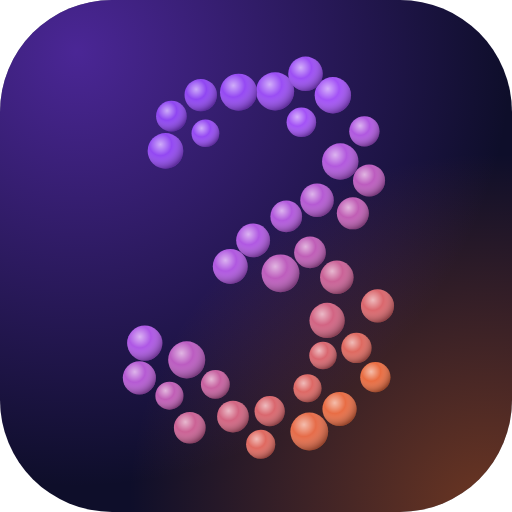
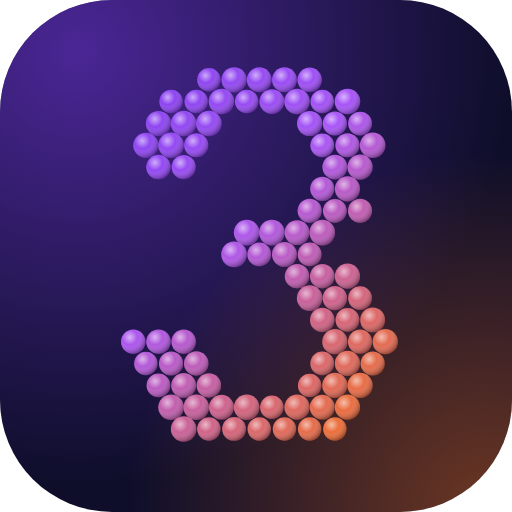
Refine the particle 3: denser honeycomb packing, smaller superscript
Resample the 3 on a tight honeycomb grid so particles sit close and
evenly along the strokes, and size it down in the header to read as a
superscript. Favicons (bolder variant at 16px), app icons, logo.svg and
og-image regenerated to match.

Claude-Session: https://claude.ai/code/session_01PYS1rasdfGw81tkoDZqZRk

Changed region(s): [[0.2188, 0.0938, 0.7812, 0.9062]]

diff --git a/src/components/particleThree.ts b/src/components/particleThree.ts
@@ -1,2 +1,2 @@
 // Particle "3" for the logo, sampled from DM Sans ExtraBold in a 24×24 box: [x, y, radius, colour]
-export const PARTICLE_THREE: [number, number, number, string][] = [[15,11.8,0.88,"#bf5eb7"],[14.86,19.35,0.78,"#dd6865"],[17.58,17.11,0.84,"#de6960"],[13.06,2.85,1.06,"#9a4df4"],[15.95,15.58,0.98,"#d26483"],[16.27,3.07,1.01,"#a352f6"],[16.68,6.75,1.01,"#b259dd"],[15.39,8.9,0.93,"#b55ad3"],[10.72,20.92,0.88,"#d26582"],[12.76,20.62,0.84,"#d9676e"],[17.38,9.63,0.89,"#c05eb5"],[8.93,3.06,0.9,"#9046f2"],[14.52,4.57,0.82,"#a352f6"],[6.97,6.16,0.99,"#9348f2"],[16.64,20.5,0.95,"#e86d45"],[11.84,11.13,0.94,"#b058e2"],[18.75,14.77,0.92,"#da676d"],[7.19,19.76,0.78,"#c05eb6"],[8.15,17.77,1.03,"#bb5cc1"],[16.49,13.18,0.93,"#ca6297"],[8.32,21.54,0.88,"#cb6295"],[11.03,2.9,1.03,"#9549f3"],[14.96,21.75,1.05,"#e66c49"],[13.36,12.96,1.05,"#bd5dbd"],[5.82,16.84,0.98,"#ae57e5"],[18.63,18.73,0.84,"#e96d42"],[13.68,9.8,0.88,"#b259dc"],[18.02,5.07,0.84,"#b058e0"],[7.3,4.23,0.85,"#8f46f1"],[9.19,5.18,0.77,"#964af3"],[12.26,22.46,0.81,"#df6960"],[18.28,7.8,0.89,"#bc5cbf"],[9.74,19.13,0.8,"#c761a0"],[5.52,18.77,0.92,"#b55ad3"],[10.57,12.58,0.97,"#b058e0"],[15.72,17.53,0.76,"#d96770"],[14.75,1.88,0.96,"#9c4ef4"]];
+export const PARTICLE_THREE: [number, number, number, string][] = [[9.38,2.21,0.65,"#8f46f1"],[10.78,2.21,0.7,"#9348f2"],[12.18,2.21,0.69,"#964af3"],[13.58,2.21,0.69,"#9a4cf4"],[14.98,2.21,0.68,"#9e4ff5"],[7.28,3.42,0.65,"#8d44f1"],[8.68,3.42,0.65,"#9046f2"],[10.08,3.42,0.71,"#9449f2"],[11.48,3.42,0.65,"#984bf3"],[12.88,3.42,0.69,"#9b4df4"],[14.28,3.42,0.71,"#9f50f5"],[15.68,3.42,0.65,"#a352f6"],[17.08,3.42,0.71,"#a754f7"],[6.58,4.64,0.7,"#8e45f1"],[7.98,4.64,0.71,"#9247f2"],[9.38,4.64,0.71,"#954af3"],[14.98,4.64,0.7,"#a453f6"],[16.38,4.64,0.67,"#a855f7"],[17.78,4.64,0.66,"#ad57e8"],[5.88,5.85,0.7,"#8f46f1"],[7.28,5.85,0.71,"#9348f2"],[8.68,5.85,0.67,"#974af3"],[15.68,5.85,0.66,"#aa56f2"],[17.08,5.85,0.67,"#b058e2"],[18.48,5.85,0.71,"#b55ad3"],[6.58,7.06,0.68,"#9449f3"],[7.98,7.06,0.67,"#984bf3"],[16.38,7.06,0.69,"#b259dc"],[17.78,7.06,0.7,"#b75bcd"],[15.68,8.27,0.67,"#b459d7"],[17.08,8.27,0.7,"#b95bc7"],[14.98,9.49,0.67,"#b65ad1"],[16.38,9.49,0.66,"#bb5cc2"],[17.78,9.49,0.67,"#c15eb2"],[11.48,10.7,0.71,"#ad57ea"],[12.88,10.7,0.71,"#b259db"],[14.28,10.7,0.69,"#b85bcb"],[15.68,10.7,0.71,"#bd5dbc"],[10.78,11.91,0.71,"#af57e5"],[12.18,11.91,0.66,"#b459d5"],[13.58,11.91,0.69,"#ba5cc6"],[14.98,11.91,0.66,"#bf5eb6"],[14.28,13.12,0.68,"#c15eb1"],[15.68,13.12,0.68,"#c760a1"],[17.08,13.12,0.7,"#cd6392"],[14.98,14.34,0.71,"#c9619b"],[16.38,14.34,0.68,"#cf638c"],[17.78,14.34,0.66,"#d4657c"],[15.68,15.55,0.68,"#d16486"],[17.08,15.55,0.66,"#d66677"],[18.48,15.55,0.69,"#dc6867"],[5.18,16.76,0.68,"#ac56ed"],[6.58,16.76,0.68,"#b158de"],[7.98,16.76,0.68,"#b75ace"],[16.38,16.76,0.7,"#d86771"],[17.78,16.76,0.67,"#de6961"],[19.18,16.76,0.7,"#e36b52"],[5.88,17.97,0.65,"#b359d8"],[7.28,17.97,0.67,"#b95bc8"],[8.68,17.97,0.68,"#be5db9"],[15.68,17.97,0.66,"#da686b"],[17.08,17.97,0.7,"#e06a5c"],[18.48,17.97,0.67,"#e56c4c"],[6.58,19.19,0.66,"#bb5cc3"],[7.98,19.19,0.69,"#c05eb3"],[9.38,19.19,0.68,"#c660a4"],[14.98,19.19,0.65,"#dc6866"],[16.38,19.19,0.7,"#e26a56"],[17.78,19.19,0.7,"#e86d47"],[7.28,20.4,0.71,"#c25fae"],[8.68,20.4,0.71,"#c8619e"],[10.08,20.4,0.69,"#ce638e"],[11.48,20.4,0.71,"#d3657f"],[12.88,20.4,0.65,"#d9676f"],[14.28,20.4,0.7,"#de6960"],[15.68,20.4,0.69,"#e46b50"],[17.08,20.4,0.7,"#ea6d41"],[7.98,21.61,0.71,"#ca6298"],[9.38,21.61,0.65,"#d06489"],[10.78,21.61,0.66,"#d56679"],[12.18,21.61,0.65,"#db686a"],[13.58,21.61,0.65,"#e06a5a"],[14.98,21.61,0.65,"#e66c4b"],[16.38,21.61,0.65,"#ec6e3b"]];

diff --git a/src/components/Logo.tsx b/src/components/Logo.tsx
@@ -37,7 +37,7 @@ export const Logo = ({ className = "", isScrolled = false }: LogoProps) => (
       }`}
     >
       SIX
-      <BrandMark className="w-[0.95em] h-[0.95em] -mt-[0.3em] -ml-[0.02em] drop-shadow-[0_0_5px_rgba(168,85,247,0.45)]" />
+      <BrandMark className="w-[0.75em] h-[0.75em] -mt-[0.26em] ml-[0.03em] drop-shadow-[0_0_5px_rgba(168,85,247,0.45)]" />
     </span>
     <span className="h-4 w-px bg-gradient-to-b from-[#7c3aed] to-[#f97316] opacity-70" aria-hidden="true" />
     <span
